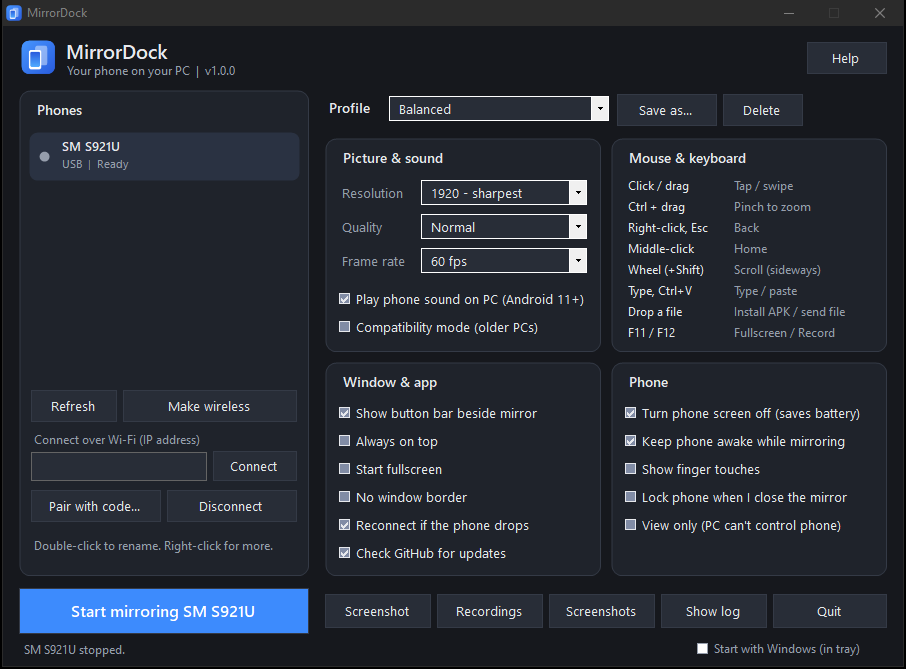
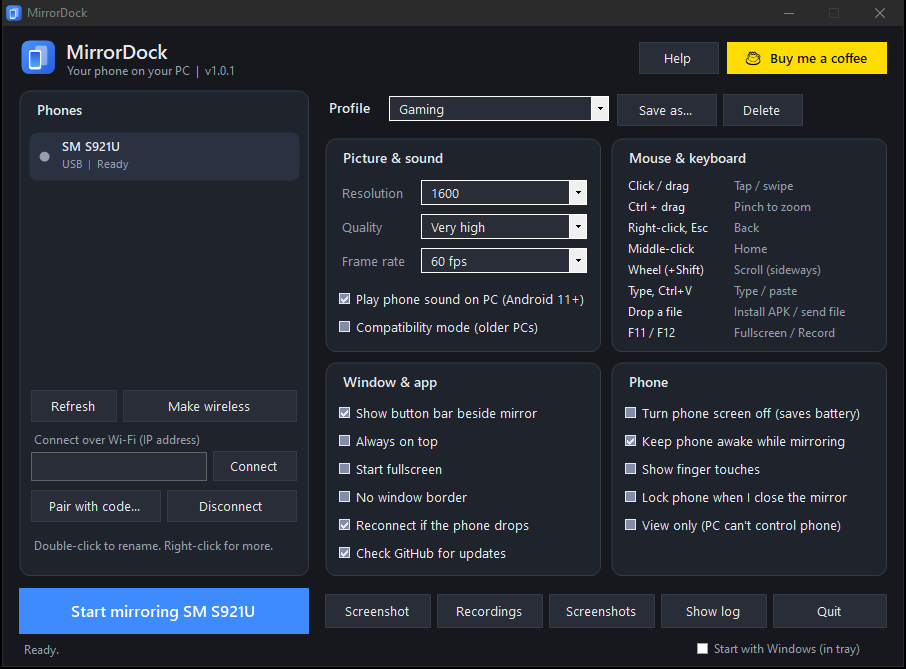
MirrorDock 1.0.1: Buy Me a Coffee, portable zip fix
- Show the Buy me a coffee button (header, Help menu, tray) and add
  FUNDING.yml so GitHub shows a Sponsor button
- Portable zip now uses "/" in entry paths so every unzip tool reads it
- README: coffee badge and support section, updated screenshot

diff --git a/src/Program.cs b/src/Program.cs
@@ -8,8 +8,8 @@ using System.Windows.Forms;
 [assembly: System.Reflection.AssemblyDescription("MirrorDock - mirror and control your Android phone")]
 [assembly: System.Reflection.AssemblyCompany("onlyilir")]
 [assembly: System.Reflection.AssemblyCopyright("Copyright (c) 2026 onlyilir. MIT License.")]
-[assembly: System.Reflection.AssemblyVersion("1.0.0.0")]
-[assembly: System.Reflection.AssemblyFileVersion("1.0.0.0")]
+[assembly: System.Reflection.AssemblyVersion("1.0.1.0")]
+[assembly: System.Reflection.AssemblyFileVersion("1.0.1.0")]
 
 namespace MirrorDock
 {

diff --git a/src/Support.cs b/src/Support.cs
@@ -14,7 +14,7 @@ namespace MirrorDock
     static class Links
     {
         public const string Repo = "onlyilir/MirrorDock";
-        public const string BuyMeACoffee = "";   // e.g. "yourname" -> https://buymeacoffee.com/yourname
+        public const string BuyMeACoffee = "only.ilir";
         public static string RepoUrl { get { return "https://github.com/" + Repo; } }
         public static string IssuesUrl { get { return RepoUrl + "/issues/new"; } }
         public static string CoffeeUrl { get { return "https://buymeacoffee.com/" + BuyMeACoffee; } }

diff --git a/installer/Setup.cs b/installer/Setup.cs
@@ -12,8 +12,8 @@ using System.Windows.Forms;
 [assembly: AssemblyDescription("Installs MirrorDock for the current Windows user")]
 [assembly: AssemblyCompany("onlyilir")]
 [assembly: AssemblyCopyright("Copyright (c) 2026 onlyilir. MIT License.")]
-[assembly: AssemblyVersion("1.0.0.0")]
-[assembly: AssemblyFileVersion("1.0.0.0")]
+[assembly: AssemblyVersion("1.0.1.0")]
+[assembly: AssemblyFileVersion("1.0.1.0")]
 
 namespace MirrorDock
 {

diff --git a/src/MainForm.cs b/src/MainForm.cs
@@ -12,7 +12,7 @@ namespace MirrorDock
 {
     class MainForm : Form
     {
-        public const string Version = "1.0.0";
+        public const string Version = "1.0.1";
 
         readonly AppSettings settings = AppSettings.Load();
         readonly Dictionary<string, MirrorSession> sessions = new Dictionary<string, MirrorSession>();

diff --git a/server/src/com/mirrordock/Version.java b/server/src/com/mirrordock/Version.java
@@ -1,5 +1,5 @@
 package com.mirrordock;
 
 final class Version {
-    static final String NAME = "1.0.0";
+    static final String NAME = "1.0.1";
 }

diff --git a/README.md b/README.md
@@ -8,6 +8,8 @@ Plug in your phone (or connect over Wi-Fi), click **Start mirroring**, and your 
 
 **[Download the latest version](https://github.com/onlyilir/MirrorDock/releases/latest)** for Windows 10 or 11.
 
+<a href="https://buymeacoffee.com/only.ilir"><img src="https://img.shields.io/badge/Buy%20me%20a%20coffee-FFDD00?logo=buymeacoffee&logoColor=black" alt="Buy me a coffee"></a>
+
 ## Features
 
 - **Smooth, sharp video.** Hardware H.264 from the phone, decoded by Windows itself, at up to 120 fps.
@@ -31,8 +33,8 @@ Plug in your phone (or connect over Wi-Fi), click **Start mirroring**, and your 
 
 | File | What it is |
 | --- | --- |
-| `MirrorDock-1.0.0-Setup.exe` | Installer. Adds a Start menu entry, a desktop shortcut and an uninstaller in *Settings > Apps*. No admin rights needed. |
-| `MirrorDock-1.0.0-portable.zip` | Unzip anywhere and run `MirrorDock.exe`. Nothing is installed. |
+| `MirrorDock-1.0.1-Setup.exe` | Installer. Adds a Start menu entry, a desktop shortcut and an uninstaller in *Settings > Apps*. No admin rights needed. |
+| `MirrorDock-1.0.1-portable.zip` | Unzip anywhere and run `MirrorDock.exe`. Nothing is installed. |
 
 <img src="docs/screenshots/installer.png" alt="MirrorDock installer" width="420">
 
@@ -43,7 +45,7 @@ MirrorDock is new and not code-signed (certificates cost hundreds of dollars a y
 You can check that your download matches the release by comparing its SHA-256 hash with `SHA256SUMS.txt` on the release page:
 
 ```
-Get-FileHash .\MirrorDock-1.0.0-Setup.exe -Algorithm SHA256
+Get-FileHash .\MirrorDock-1.0.1-Setup.exe -Algorithm SHA256
 ```
 
 The full source is in this repo, and you can build it yourself (see below).
@@ -113,6 +115,10 @@ powershell -ExecutionPolicy Bypass -File tests\run-selftest.ps1   # records 6 s 
 ## Contributing
 
 Bug reports and pull requests are welcome. Please include *Help > Copy diagnostics* in issues. The code is C# 5 (so it builds with the compiler that comes with Windows) and Java 8.
+
+## Support
+
+MirrorDock is free and always will be. If it saves you time, you can [buy me a coffee](https://buymeacoffee.com/only.ilir). Thank you!
 
 ## License
 
